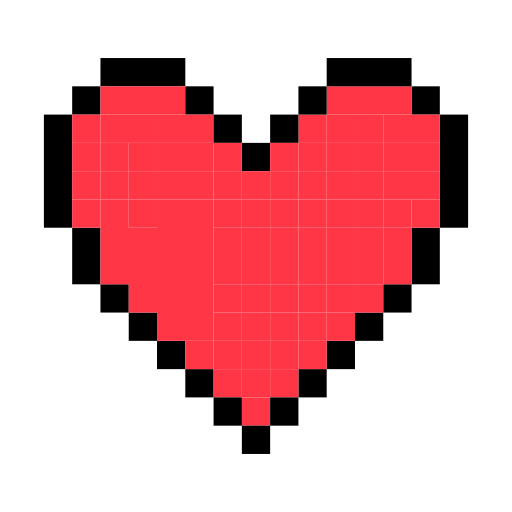
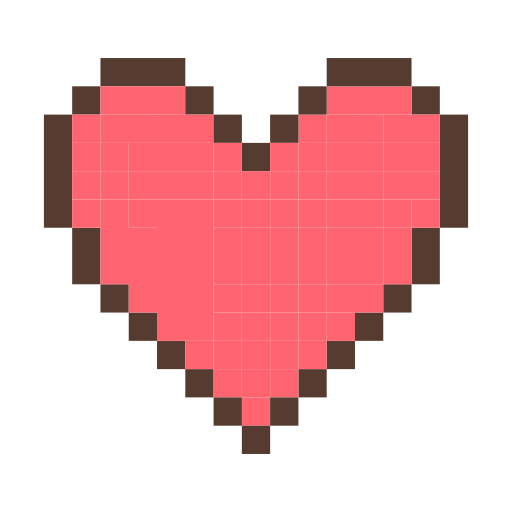
Finished the zoom page.

diff --git a/src/styles/closeup.css b/src/styles/closeup.css
@@ -1,7 +1,11 @@
+@import url("https://fonts.googleapis.com/css2?family=Press+Start+2P&display=swap");
+
 * {
   border: 0;
   margin: 0;
   overflow: hidden;
+  color: #553b30;
+  font-family: "Press Start 2P", cursive;
 }
 
 .button-container {
@@ -24,6 +28,9 @@
 
 .bg {
   background: url("../images/zoomeemama_bg.png") repeat-x;
+  image-rendering: pixelated;
+  image-rendering: -moz-crisp-edges;
+  image-rendering: crisp-edges;
   background-size: 130vw;
   height: 150vh;
   width: 5076px;
@@ -44,7 +51,7 @@
 }
 
 .left,
-.right {
+.section {
   display: flex;
   align-items: center;
   justify-content: center;
@@ -58,7 +65,7 @@
   background-color: #b98849;
   border-radius: 50px;
   margin: 3vh;
-  padding: 1vh;
+  padding: 1vh 2vw;
   box-shadow: 5px 7px #533c1e8f;
 }
 
@@ -69,19 +76,21 @@
   margin-right: 0.5vw;
 }
 
-.name-container h3 {
-  font-size: 4vh;
-}
-
 .status-bar p {
-  font-size: 2.5vh;
+  font-size: 2vh;
 }
 
 .right p {
   margin: 0 1vh;
 }
+
+.name-container h3 {
+  font-size: 3vh;
+}
+
 .name-container p {
-  font-size: 2vh;
+  margin-top: 1vh;
+  font-size: 1.2vh;
   font-style: italic;
 }
 
@@ -94,7 +103,32 @@
 }
 
 .pet-walking {
-  margin-top: 15vh;
+  margin-top: 19vh;
   height: 45vh;
   width: auto;
+}
+
+.arrow {
+  background-image: url("../images/arrow-sign.png");
+  background-position: center;
+  background-size: cover;
+  background-repeat: no-repeat;
+  width: 300px;
+  padding: 4vh 1vw;
+  margin-right: 4vw;
+  -webkit-filter: drop-shadow(5px 5px 5px #533c1e8f);
+  filter: drop-shadow(5px 5px 5px #533c1e8f);
+}
+
+.arrow p {
+  font-size: 15px;
+  line-height: 2vh;
+  text-align: left;
+  padding-left: 1.5vw;
+}
+
+.middle-container {
+  display: flex;
+  align-items: center;
+  justify-content: space-between;
 }

diff --git a/src/pages/Closeup.js b/src/pages/Closeup.js
@@ -8,6 +8,8 @@ import pet from "../images/tan_pet0.png";
 import petWalking from "../images/tan_pet_walking.gif";
 
 const Closeup = ({ distanceInKm }) => {
+  // dist = distanceInKm > 10 ? dist = 10 : dist = distanceInKm
+  // dist = distanceInKm < 0 ? dist = 0 : dist = distanceInKm
   const dist = 10;
   return (
     <div>
@@ -17,8 +19,12 @@ const Closeup = ({ distanceInKm }) => {
           <NavButton icon={<CheckroomIcon fontSize="large" />}></NavButton>
         </div>
 
-        <div>
-          <img src={petWalking} className="pet-walking"></img>
+        <div className="middle-container">
+          <div style={{ width: 100 }}></div>
+          <img src={petWalking} className="pet-walking" alt="pet walking"></img>
+          <div className="arrow">
+            <p>{100}km left until next checkpoint!</p>
+          </div>
         </div>
         <div className="status-bar">
           <div className="left">
@@ -29,8 +35,13 @@ const Closeup = ({ distanceInKm }) => {
             </div>
           </div>
 
-          <div className="right">
+          <div className="section">
+            {/* SHOULD USE INPUT DIST */}
+            <p>DISTANCE WALKED: {100} KM</p>
+          </div>
+          <div className="section">
             <p>HAPPINESS</p>
+            {/* SHOULD USE CALCULATED DIST */}
             <HeartMeter kilometres={dist} />
             <p>{dist * 10}%</p>
           </div>
